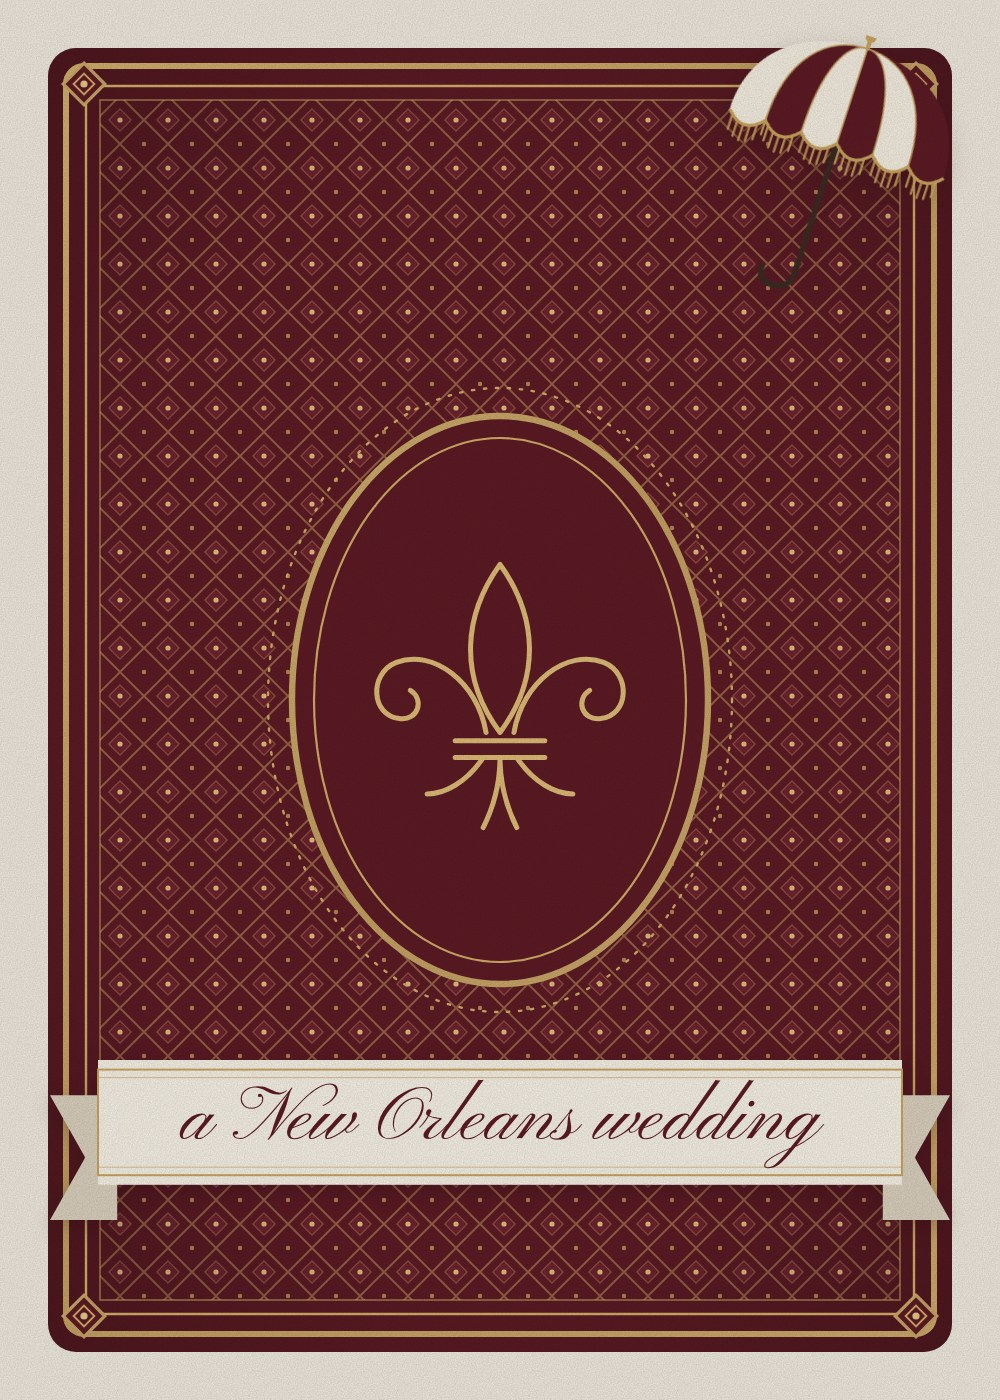
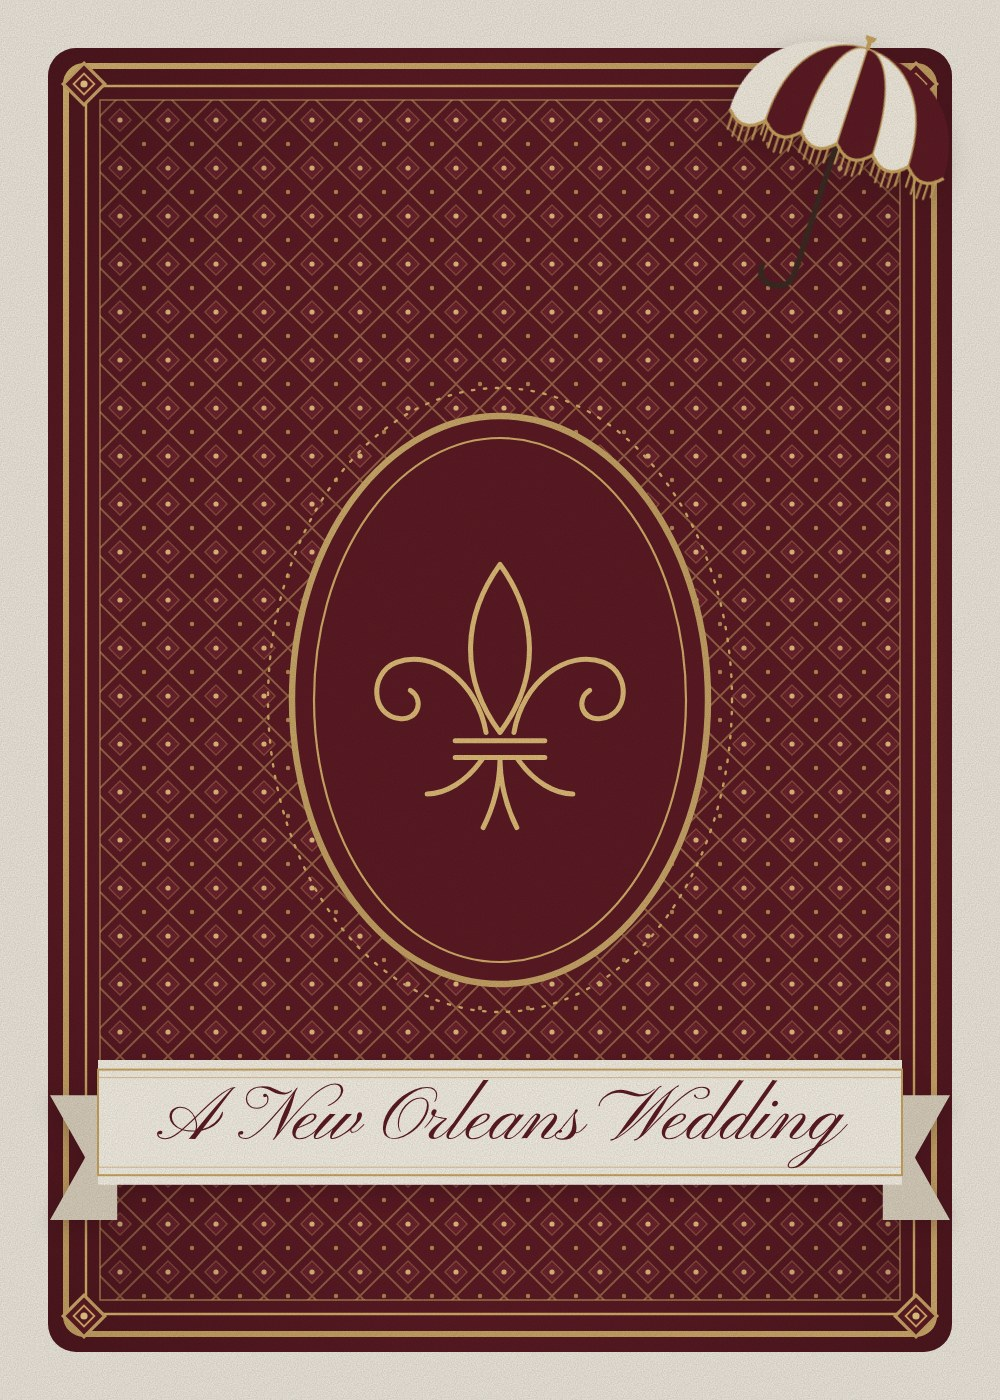
Preview tests: title case 'A New Orleans Wedding'
Claude-Session: https://claude.ai/code/session_016KBQnmGzJaodTgtuWJa9K5

Changed region(s): [[0.155, 0.7679, 0.837, 0.8293]]

diff --git a/tools/make-previews.js b/tools/make-previews.js
@@ -43,7 +43,7 @@ svg.art{width:100%;height:100%;display:block}
 body::after{content:"";position:absolute;inset:0;opacity:.3;mix-blend-mode:multiply;background-image:${grain}}</style></head>
 <body>${defs}<svg class="art" viewBox="0 0 250 350"><use href="#cardback"/></svg>
 <div class="parasol">${parasolSVG(["#f3ece0", "#5c1a24", "#c9a45f"])}</div>
-<div class="banner">${ribbon(900, 160)}<span>a New Orleans wedding</span></div></body></html>`;
+<div class="banner">${ribbon(900, 160)}<span>A New Orleans Wedding</span></div></body></html>`;
 // Square preview: the card on the cream background.
 const square = `<!doctype html><html><head>${SCRIPT}<style>*{margin:0;box-sizing:border-box}
 ${bannerCSS}
@@ -57,7 +57,7 @@ box-shadow:inset 0 0 0 1px rgba(60,30,20,.2),0 3px 4px rgba(0,0,0,.2),0 34px 70p
 .card::after{content:"";position:absolute;inset:0;opacity:.3;mix-blend-mode:multiply;background-image:${grain}}</style></head>
 <body>${defs}<div class="frame"></div><div class="card"><svg viewBox="0 0 250 350"><use href="#cardback"/></svg></div>
 <div class="parasol">${parasolSVG(["#c9a45f", "#f3ece0", "#5c1a24"])}</div>
-<div class="banner">${ribbon(820, 140)}<span>a New Orleans wedding</span></div></body></html>`;
+<div class="banner">${ribbon(820, 140)}<span>A New Orleans Wedding</span></div></body></html>`;
 
 (async () => {
   const browser = await chromium.launch();

diff --git a/preview-test/portrait.html b/preview-test/portrait.html
@@ -10,13 +10,13 @@
   <meta property="og:url" content="https://aneworleanswedding.com/preview-test/portrait.html">
   <meta property="og:title" content="Ailsa ⚜ André">
   <meta property="og:description" content="Save the date · January 8, 2028 · New Orleans, Louisiana">
-  <meta property="og:image" content="https://aneworleanswedding.com/assets/og-card-portrait.jpg?v=2">
+  <meta property="og:image" content="https://aneworleanswedding.com/assets/og-card-portrait.jpg?v=3">
   <meta property="og:image:type" content="image/jpeg">
   <meta property="og:image:width" content="1000">
   <meta property="og:image:height" content="1400">
   <meta property="og:image:alt" content="A maroon playing card back with a gold fleur-de-lis medallion">
   <meta name="twitter:card" content="summary_large_image">
-  <meta name="twitter:image" content="https://aneworleanswedding.com/assets/og-card-portrait.jpg?v=2">
+  <meta name="twitter:image" content="https://aneworleanswedding.com/assets/og-card-portrait.jpg?v=3">
   <link rel="icon" href="../favicon.svg" type="image/svg+xml">
   <style>body{margin:0;min-height:100vh;display:grid;place-items:center;background:#f8f4ec;font-family:Georgia,serif;color:#2f3a33;text-align:center;padding:24px}a{color:#5c1a24}</style>
 </head>

diff --git a/preview-test/square.html b/preview-test/square.html
@@ -10,13 +10,13 @@
   <meta property="og:url" content="https://aneworleanswedding.com/preview-test/square.html">
   <meta property="og:title" content="Ailsa ⚜ André">
   <meta property="og:description" content="Save the date · January 8, 2028 · New Orleans, Louisiana">
-  <meta property="og:image" content="https://aneworleanswedding.com/assets/og-card-square.jpg?v=2">
+  <meta property="og:image" content="https://aneworleanswedding.com/assets/og-card-square.jpg?v=3">
   <meta property="og:image:type" content="image/jpeg">
   <meta property="og:image:width" content="1200">
   <meta property="og:image:height" content="1200">
   <meta property="og:image:alt" content="A maroon playing card back with a gold fleur-de-lis medallion">
   <meta name="twitter:card" content="summary_large_image">
-  <meta name="twitter:image" content="https://aneworleanswedding.com/assets/og-card-square.jpg?v=2">
+  <meta name="twitter:image" content="https://aneworleanswedding.com/assets/og-card-square.jpg?v=3">
   <link rel="icon" href="../favicon.svg" type="image/svg+xml">
   <style>body{margin:0;min-height:100vh;display:grid;place-items:center;background:#f8f4ec;font-family:Georgia,serif;color:#2f3a33;text-align:center;padding:24px}a{color:#5c1a24}</style>
 </head>
